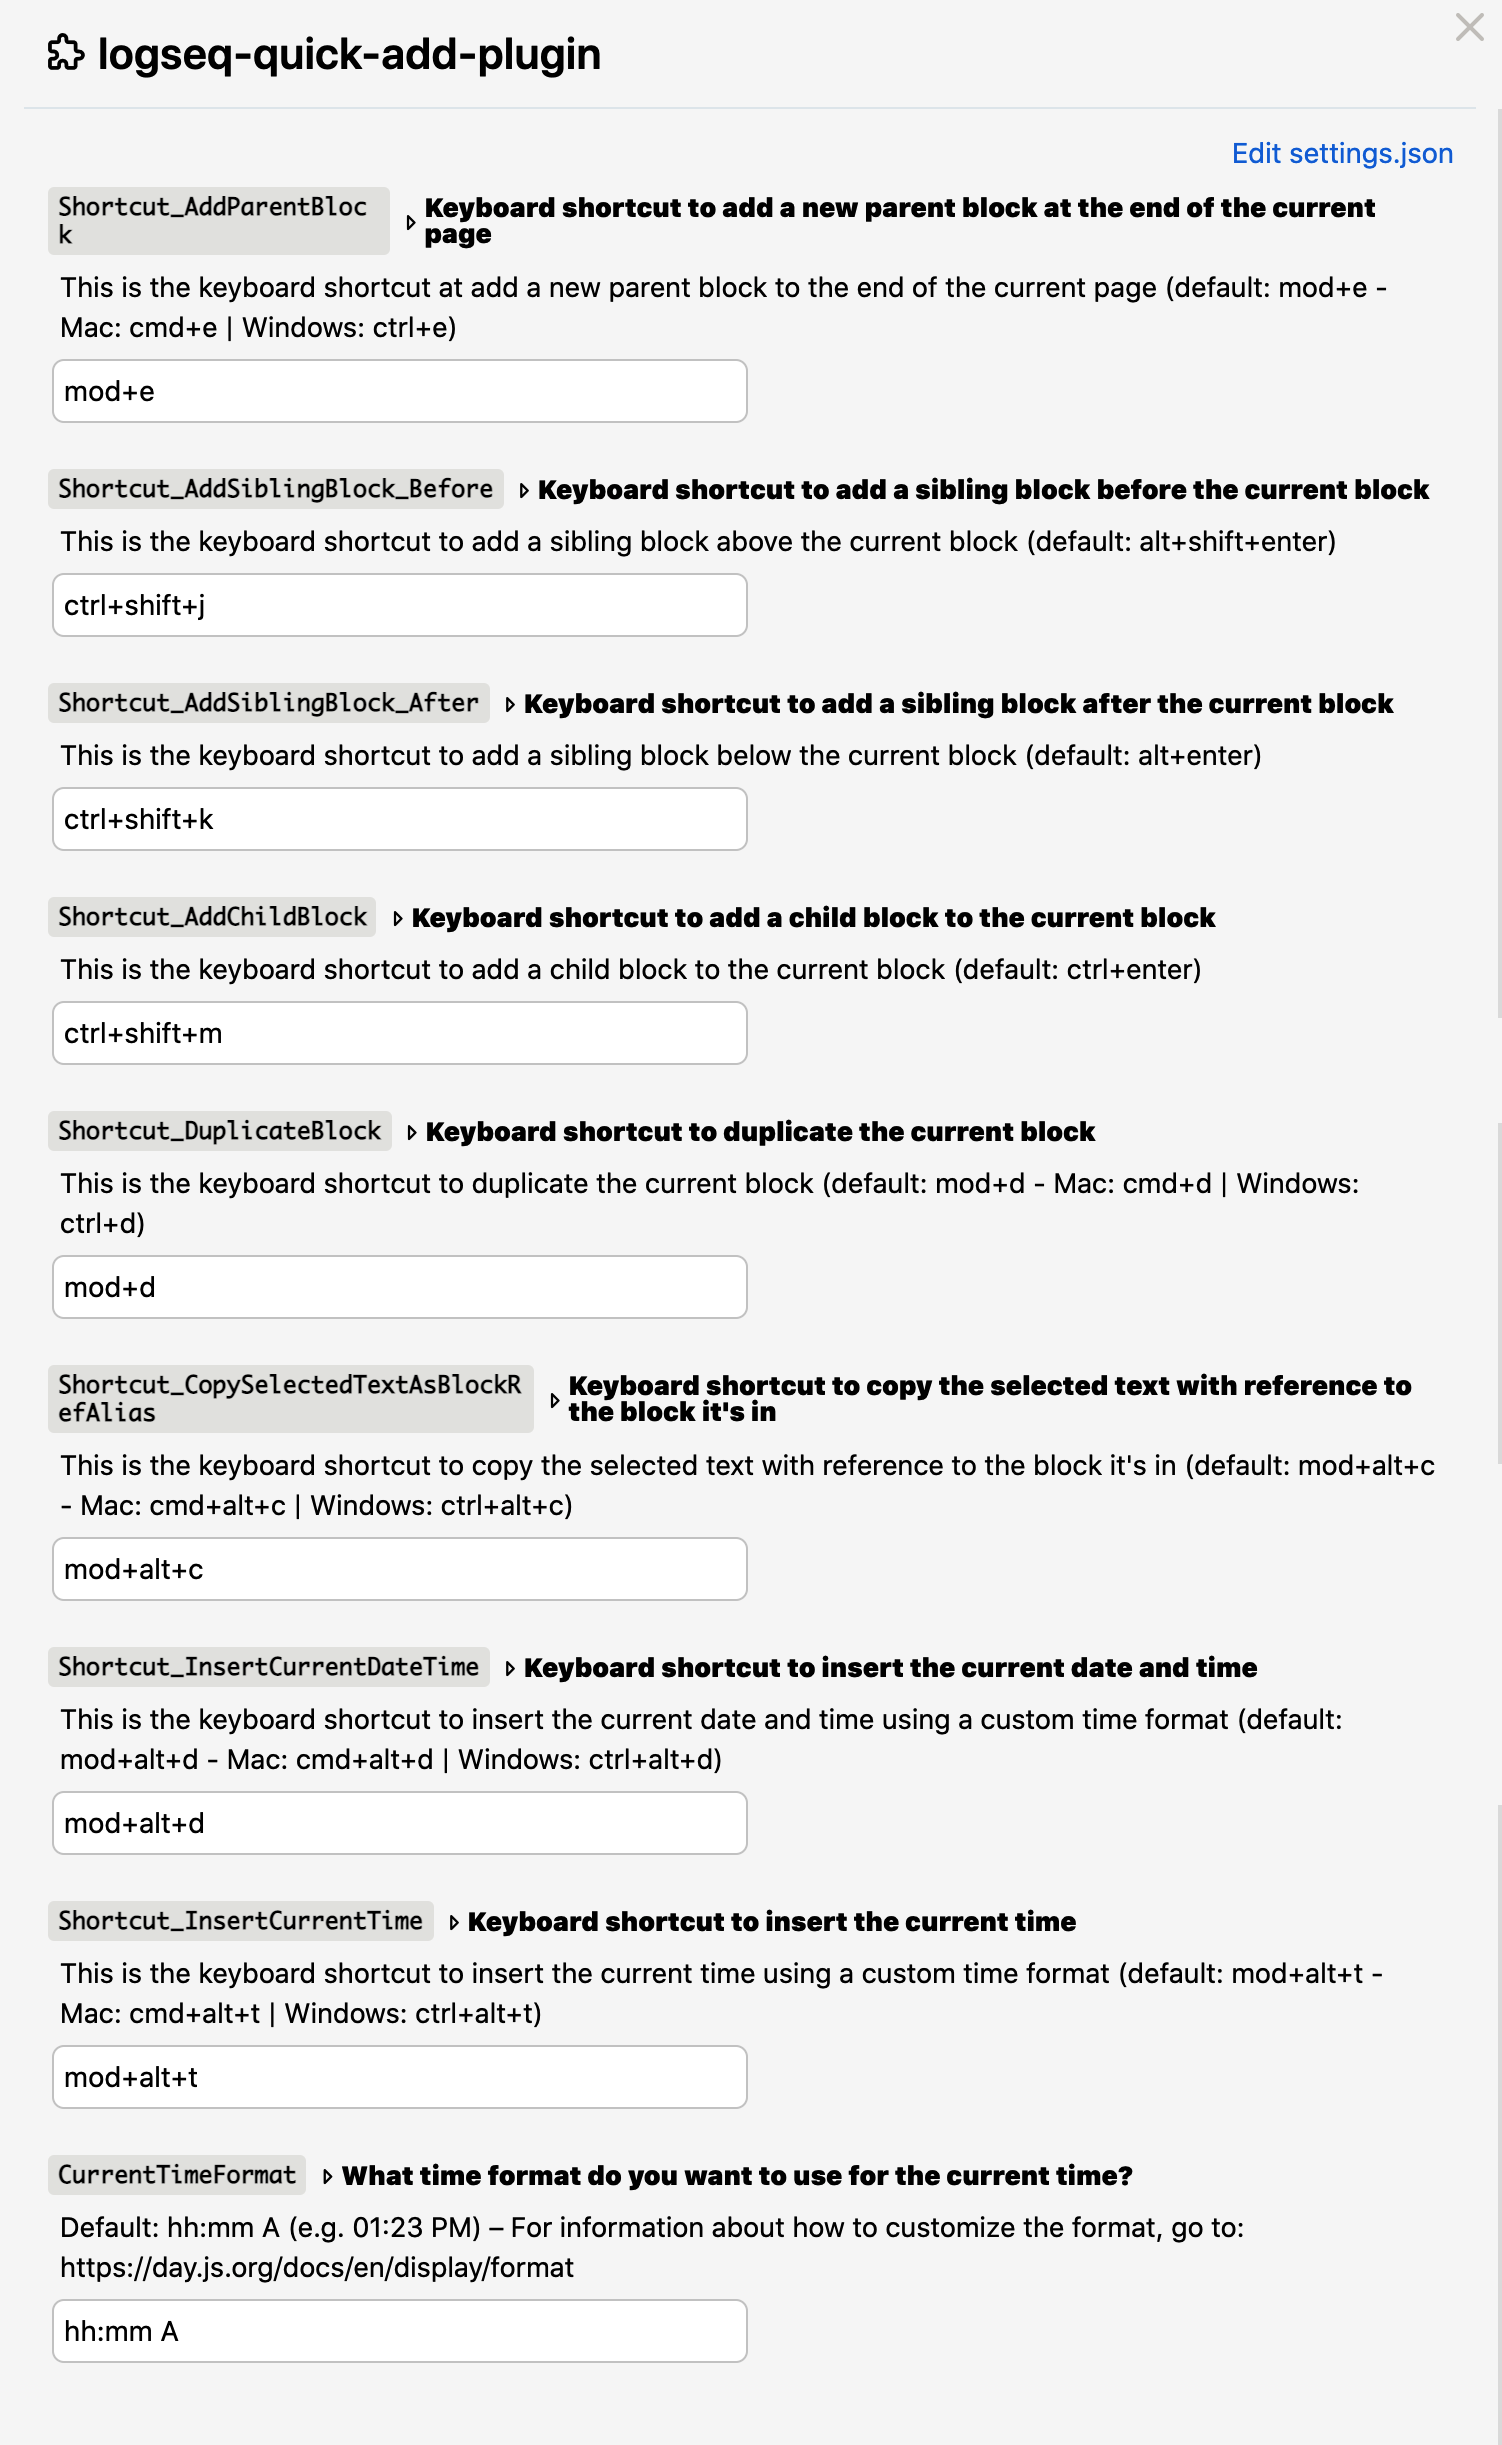
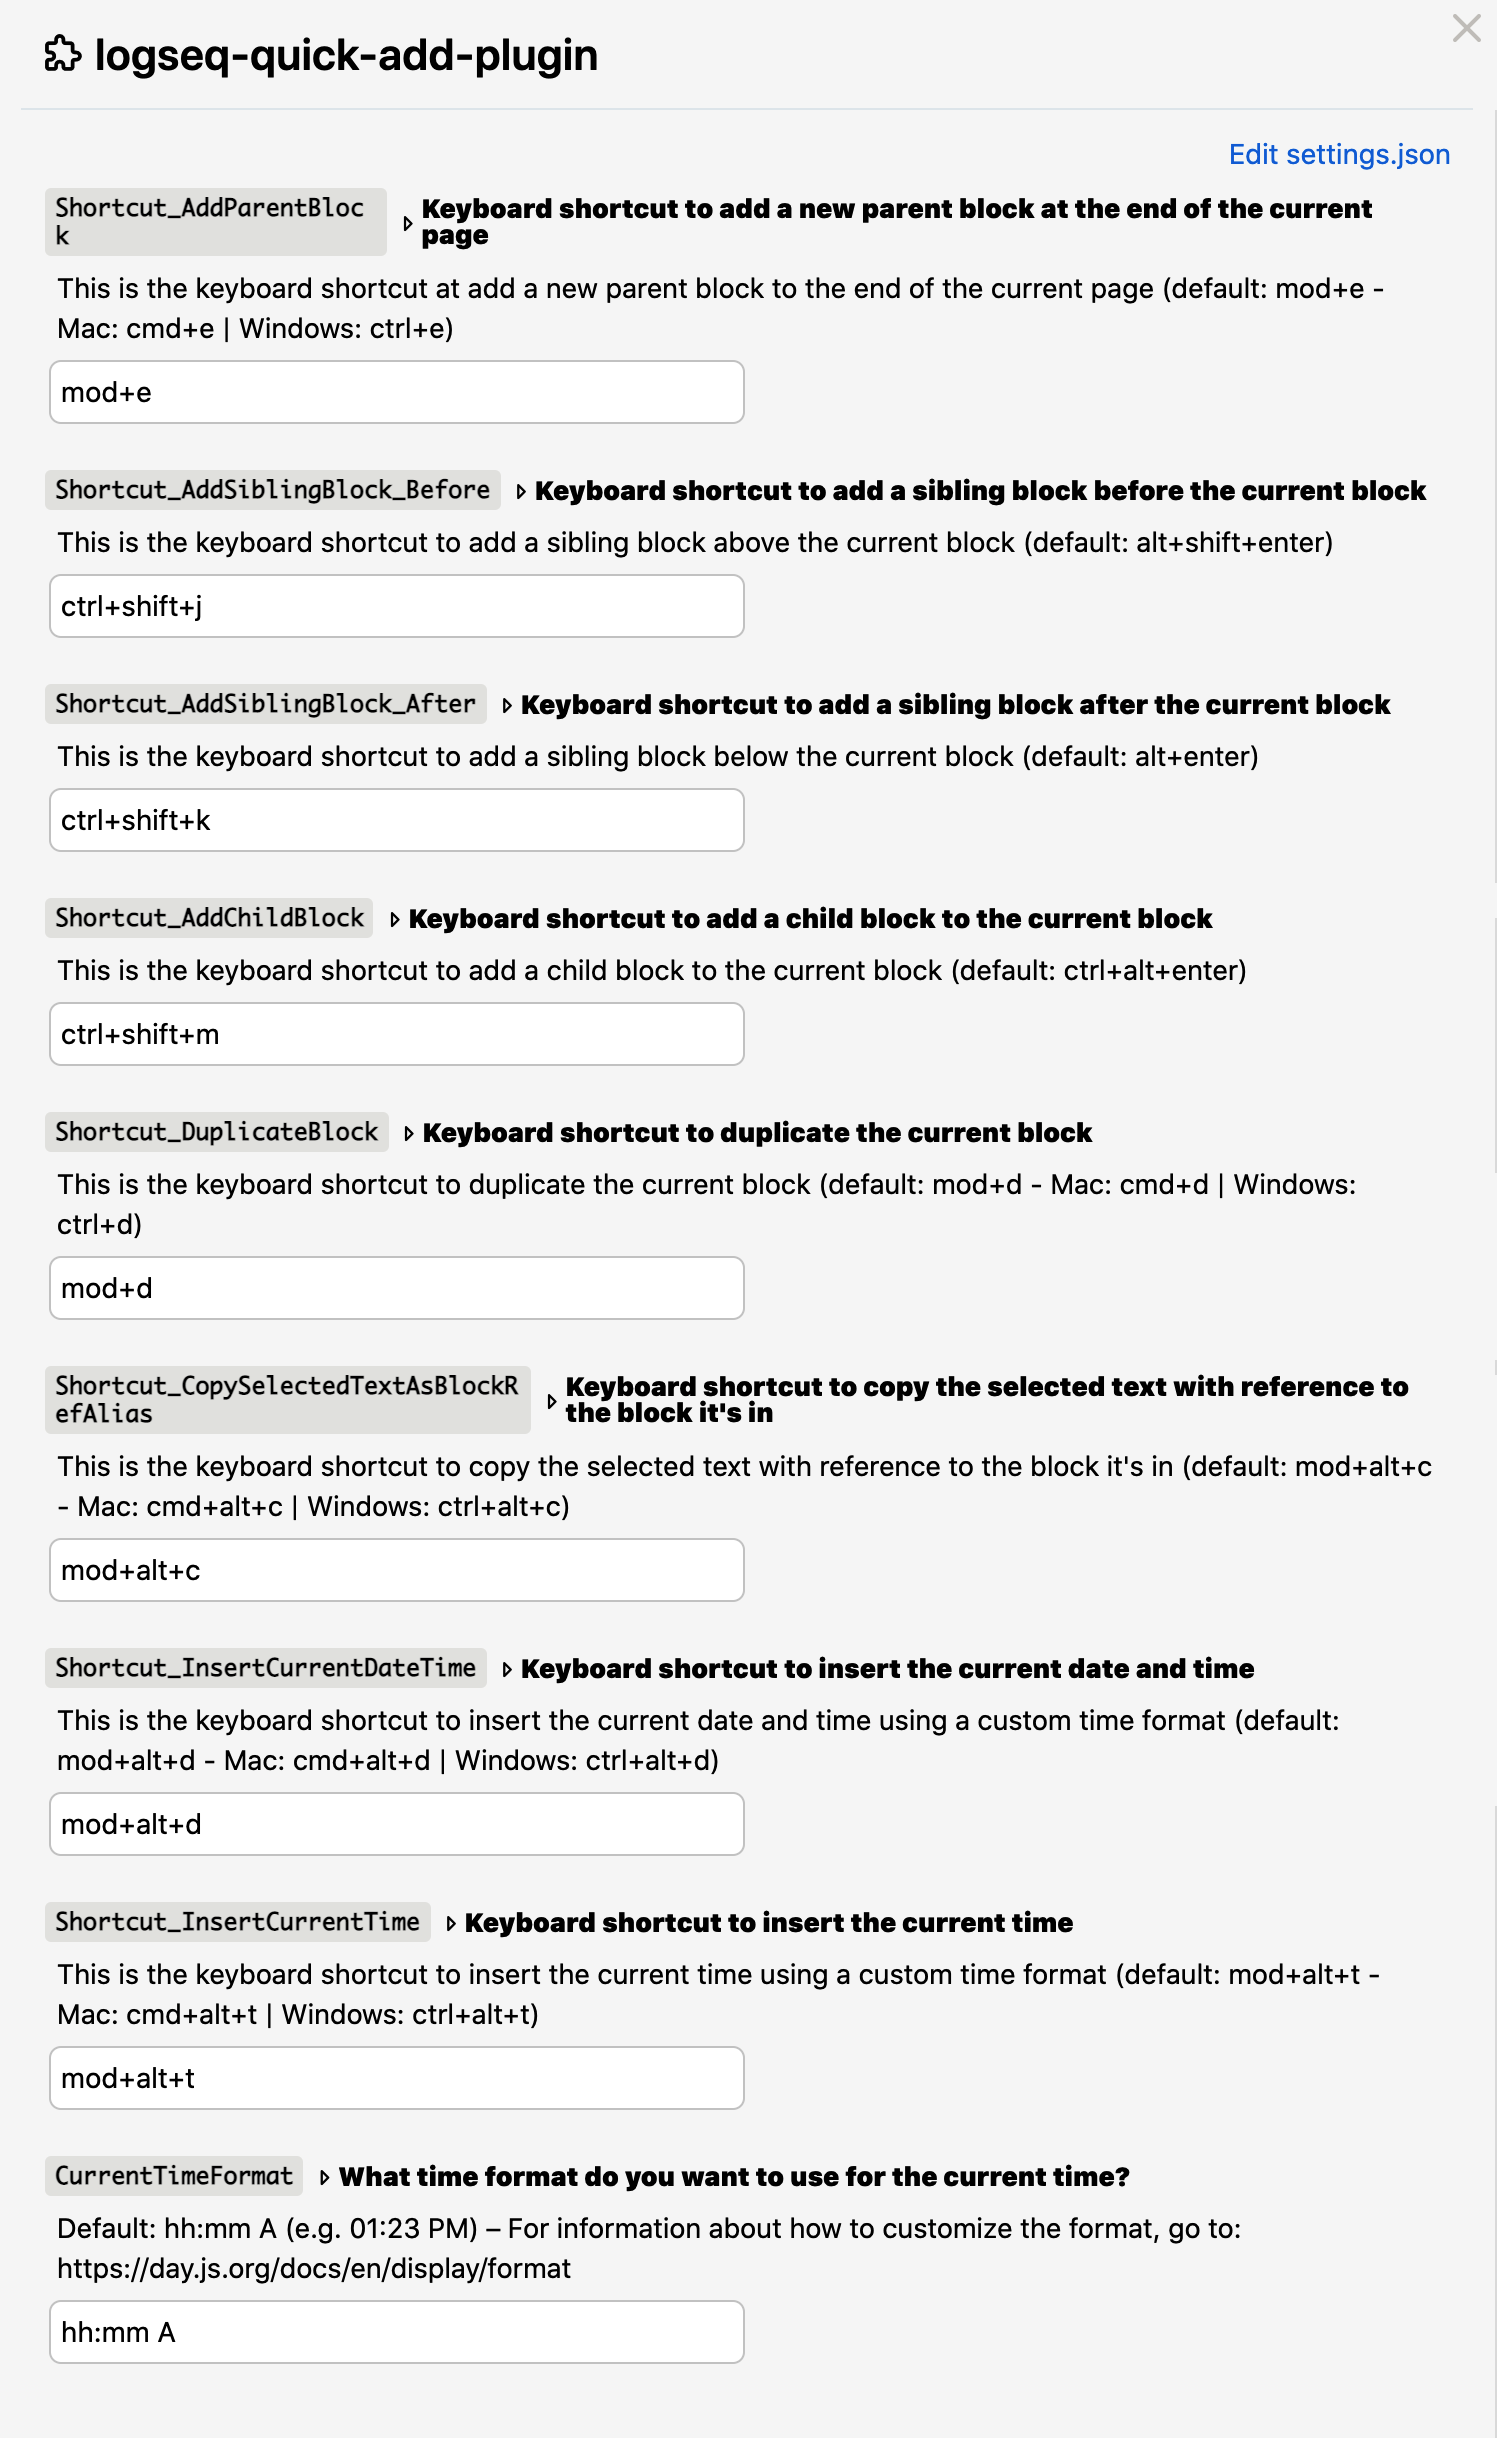
RELEASE: v.1.1.1
- fixed: updated `Shortcut_AddChildBlock` default from `ctrl+enter` to `ctrl+alt+enter` to avoid conflict w/ default task state change shortcut in Windows

diff --git a/src/index.js b/src/index.js
@@ -28,9 +28,9 @@ const settings = [
   {
     key: "Shortcut_AddChildBlock",
     title: "Keyboard shortcut to add a child block to the current block",
-    description: "This is the keyboard shortcut to add a child block to the current block (default: ctrl+enter)",
+    description: "This is the keyboard shortcut to add a child block to the current block (default: ctrl+alt+enter)",
     type: "string",
-    default: "ctrl+enter"
+    default: "ctrl+alt+enter"
   },
   {
     key: "Shortcut_DuplicateBlock",
